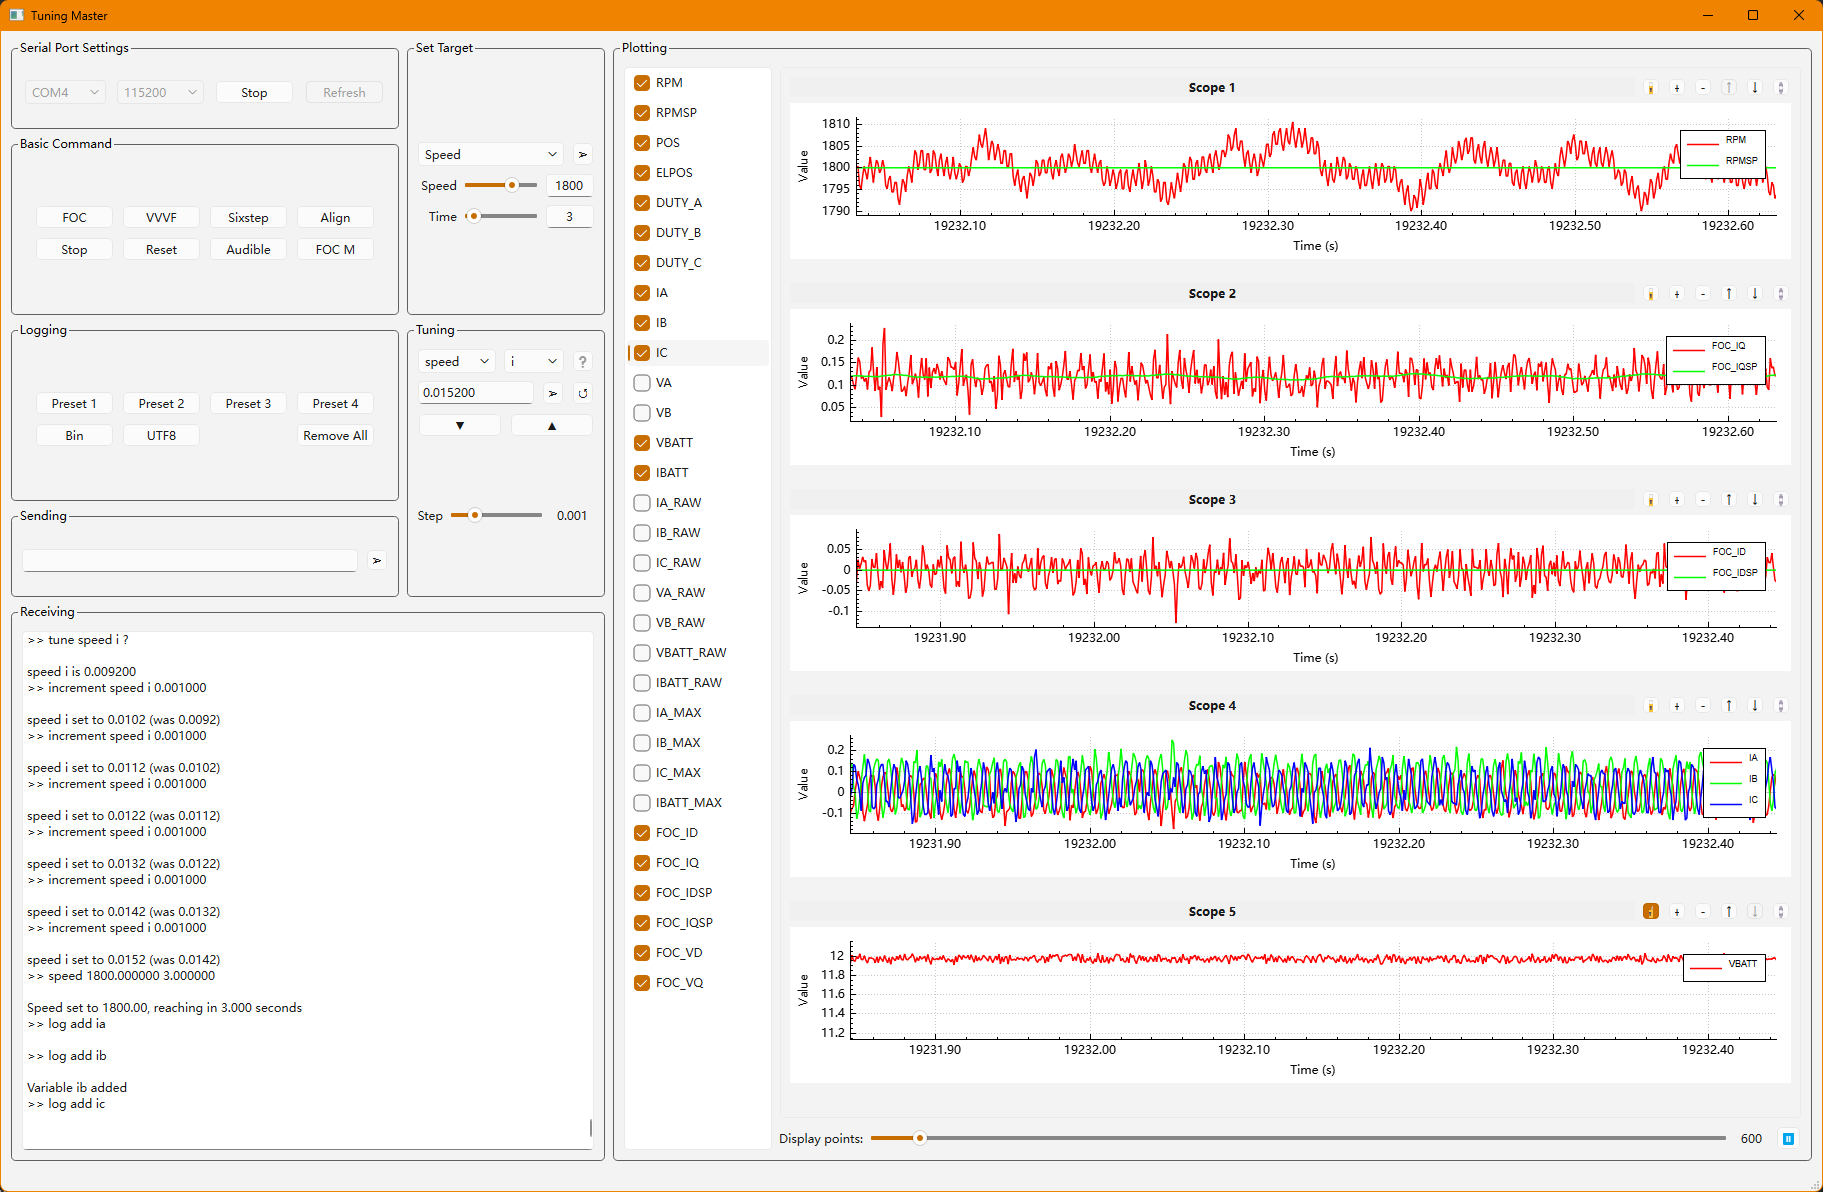
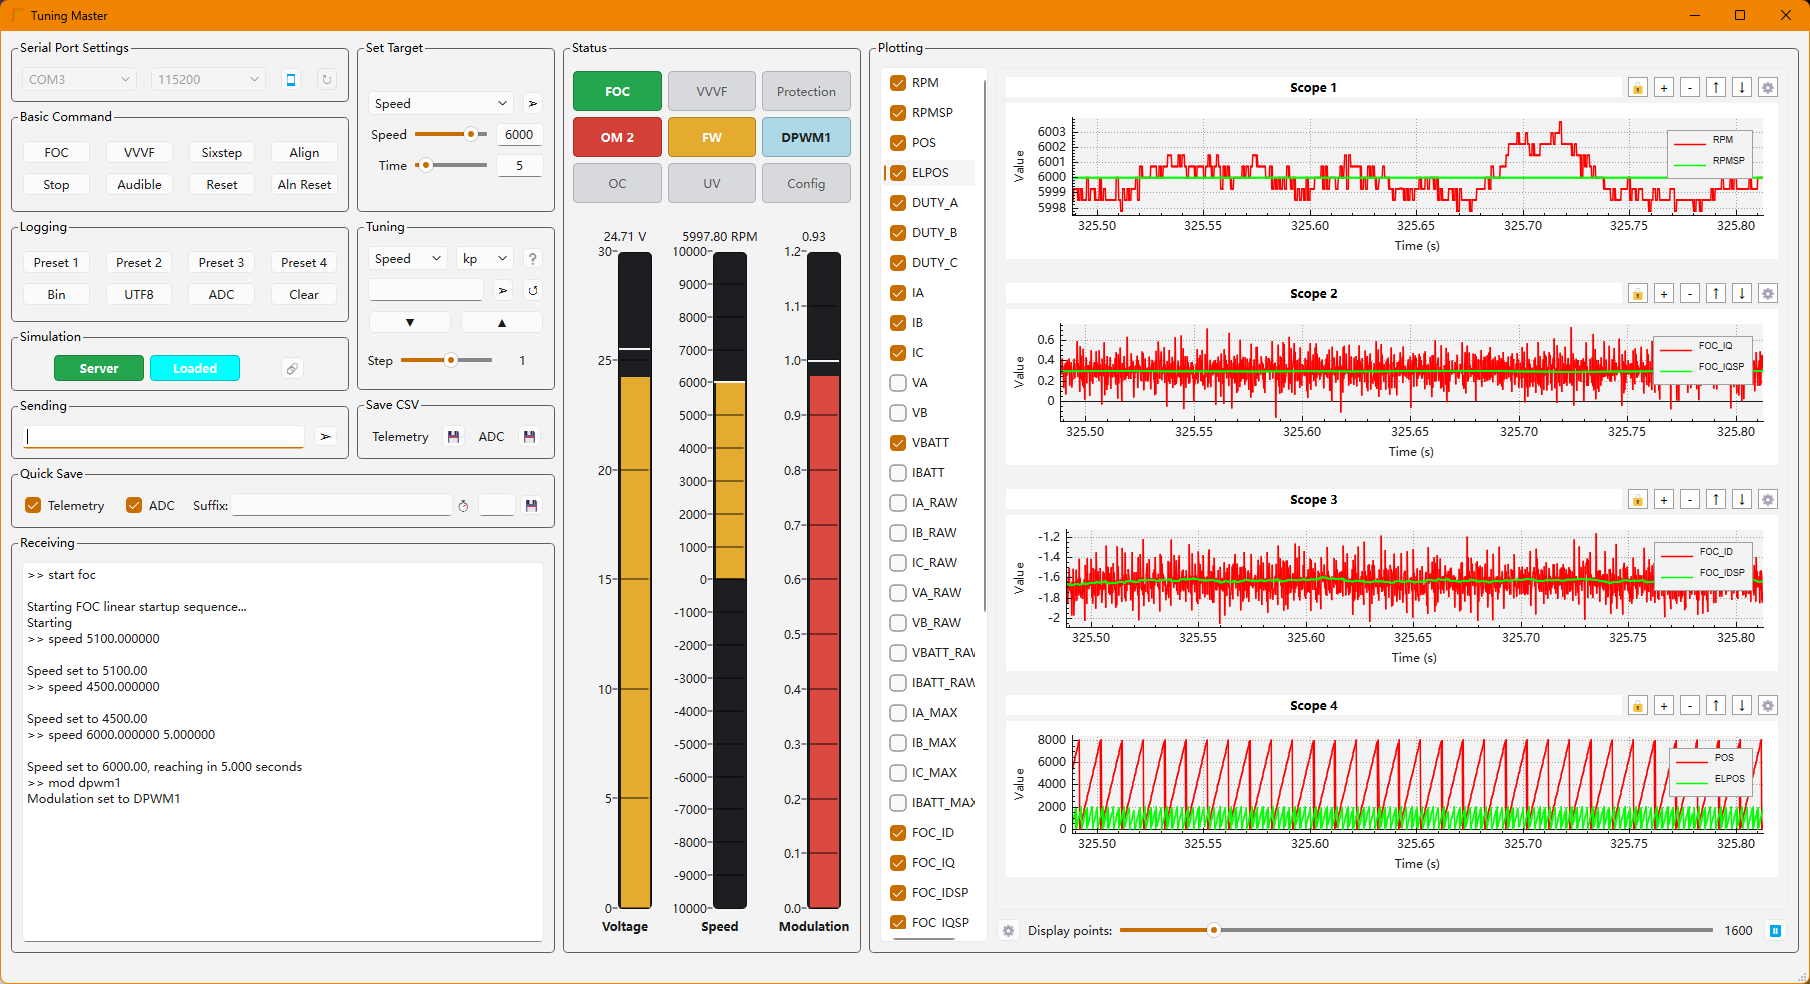
doc: updated readme

diff --git a/README.md b/README.md
@@ -1,5 +1,172 @@
-# Motor_Drive_Frontend
+# Motor Drive Frontend
 
-This project is a frontend GUI host machine designed for [Motor Drive]("https://github.com/Team1Drive/Motor_Drive"). The software is capable of communicate with the MCU using virtual COM port, sending pre-programmed command using buttons, and unpack received binary telemetry data and plot the on the oscilloscopes.
+A Qt desktop GUI for controlling and monitoring the
+[Motor Drive firmware](https://github.com/Team1Drive/Motor_Drive) from a host
+machine over a virtual COM port.
 
-![Demo image](/assets/images/demo.png)
+The application sends motor-control commands, parses binary telemetry from the
+MCU, plots selected signals on configurable oscilloscopes, displays live status
+indicators and gauges, records CSV logs, and supports synchronized simulation
+playback between two frontend instances.
+
+![Motor Drive Frontend demo](assets/images/demo.png)
+
+## Features
+
+- Serial connection management for USB virtual COM ports.
+- One-click firmware commands for FOC, VVVF, six-step, stop, align, reset, and logging presets.
+- Manual speed/torque target control with slider and exact text entry.
+- Runtime tuning controls for configured firmware parameters, including enquire, increment/decrement, and undo.
+- Binary telemetry parsing from configurable packet layouts in `telemetry_config.json`.
+- Multi-scope plotting with selectable fields, drag-and-drop field assignment, color selection, pause, save, and fault-triggered capture.
+- Live status LEDs and vertical gauges driven by configurable telemetry rules.
+- Telemetry CSV logging, ADC sample CSV logging, and quick-save capture.
+- Networked simulation mode using UDP discovery and TCP JSON-line synchronization.
+
+## Run
+
+The software can be downloaded and used out of the box from the release page.
+Start the executable, choose the serial port and baud rate, then press the
+start/stop serial button. The default baud rate in the UI is `115200`.
+
+The firmware should send telemetry frames that match `telemetry_config.json`.
+Text responses from the firmware are shown in the receive console and are also
+used by the tuning controls.
+
+## Telemetry Configuration
+
+`telemetry_config.json` is the main runtime configuration. It defines:
+
+- Telemetry packet fields and packet version layouts.
+- ADC sample packet fields and layouts.
+- Error bits and control mode names.
+- Primary and secondary telemetry fields.
+- Custom calculated fields.
+- Status indicator rules.
+- Gauge definitions and threshold bands.
+- Runtime tuning subsystems and parameters.
+
+`config_example.jsonc` documents the same structure with comments. The runtime
+configuration must be strict JSON, so comments are allowed in the example file
+but not in `telemetry_config.json`.
+
+Field formats currently used by the parser are:
+
+- `B`: unsigned 8-bit value.
+- `H`: unsigned 16-bit little-endian value.
+- `f`: 32-bit little-endian float.
+
+## Logging
+
+The frontend can write:
+
+- Telemetry CSV rows using the configured telemetry fields.
+- ADC sample CSV rows aligned by ADC sequence number.
+- Quick-save captures that collect telemetry and/or ADC data for a short window.
+
+The save buttons in the UI control these modes. Generated filenames are made
+unique automatically to avoid overwriting existing captures.
+
+## Simulation Mode
+
+The simulation dialog can coordinate two frontend instances over a network:
+
+- One instance acts as the server/coordinator.
+- Another instance connects as the client.
+- UDP discovery is used to find listening servers.
+- TCP JSON-line messages synchronize prepare, ready, fire, finish, and abort events.
+
+`simulation_example.csv` shows the expected CSV shape:
+
+```csv
+Time,Speed,Torque
+0,0,0
+0.1,0.972895,6.18757E-05
+```
+
+Use the simulation options dialog to map CSV columns to:
+
+- Server target type and value.
+- Client target type and value.
+- Time column and unit.
+- Start row.
+
+The protocol schema is documented in `sync_protocol.json`.
+
+## Development Requirements
+
+- CMake 3.16 or newer.
+- A C++17 compiler.
+- Qt 6 with these modules:
+  - Core
+  - Widgets
+  - SerialPort
+  - Network
+  - PrintSupport
+  - Charts
+- On Windows, MinGW is the expected toolchain for the included `qt-x86` CMake preset.
+
+## Build
+
+From the repository root:
+
+```powershell
+cmake --preset qt-x86
+cmake --build --preset qt-x86
+```
+
+The build target copies these runtime files beside the executable:
+
+- `telemetry_config.json`
+- `config_example.jsonc`
+- `sync_protocol.json`
+- `simulation_example.csv`
+
+If CMake cannot find Qt, configure with your Qt installation on the path or set
+`CMAKE_PREFIX_PATH` to the Qt CMake directory, for example:
+
+```powershell
+cmake --preset qt-x86 -DCMAKE_PREFIX_PATH="C:/Qt/6.x.x/mingw_64"
+```
+
+## Package On Windows
+
+The CMake file defines a `package` target for Windows builds. It copies the
+executable, deploys Qt runtime files with `windeployqt`, and adds MinGW runtime
+DLLs:
+
+```powershell
+cmake --build out/build/qt-x86 --target package
+```
+
+The packaged output is written to:
+
+```text
+out/build/release
+```
+
+## Repository Map
+
+- `main.cpp`: application entry point.
+- `mainwindow.*` and `mainwindow.ui`: main GUI, serial controls, plotting, logging, tuning, gauges, and status indicators.
+- `serialmanager.*`: `QSerialPort` wrapper used from the serial worker thread.
+- `dataparser.*`: incremental binary/text parser, configuration loader, telemetry/ADC extraction, and parser-side CSV logging.
+- `oscilloscopewidget.*`: reusable multi-trace `QCustomPlot` widget.
+- `audiolevelmeter.*`: custom vertical gauge widget.
+- `simulationdialog.*` and `simulationdialog.ui`: networked simulation coordinator/client dialog.
+- `simulationoptionsdialog.*` and `simulationoptionsdialog.ui`: CSV column mapping dialog.
+- `draglistwidget.*`: drag support for field-list interaction.
+- `qcustomplot.*`: bundled plotting library.
+- `telemetry_config.json`: active parser/UI configuration.
+- `config_example.jsonc`: commented configuration reference.
+- `sync_protocol.json`: synchronized simulation protocol reference.
+- `simulation_example.csv`: sample simulation input data.
+
+## Development Notes
+
+- Keep firmware log command names in `telemetry_config.json` aligned with the MCU command interface.
+- When adding new telemetry fields, update the relevant mask bit, byte size, format, and command name.
+- When changing packet structure, update both `telemetry_fields` and `telemetry_structure`.
+- The app expects `telemetry_config.json` beside the executable at runtime; the CMake post-build step copies it automatically.
+- The GUI is currently organized around Qt Designer `.ui` files plus C++ widget/controller code.
+
